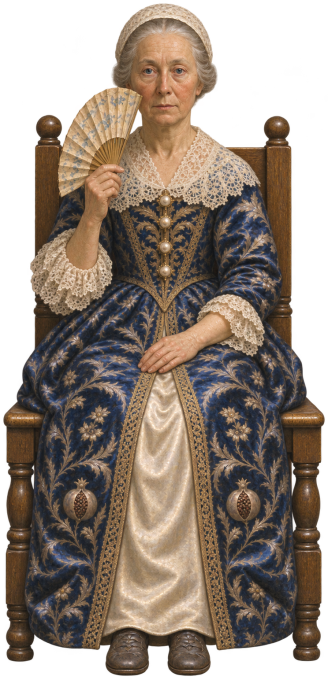
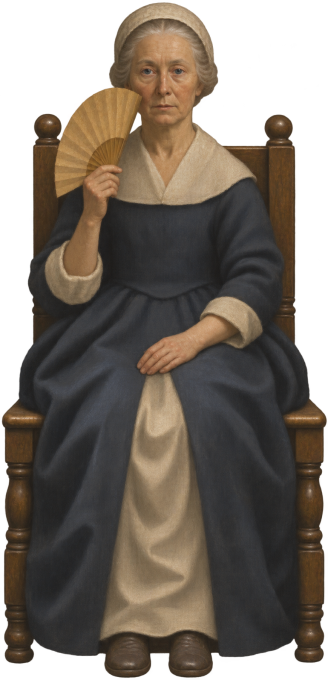
simplify the seated woman in the vermeer studio

diff --git a/scripts/vermeer/README.md b/scripts/vermeer/README.md
@@ -104,8 +104,9 @@ The level front seat rail runs horizontally; the front legs are equally near.
 Center the face, sternum, lap and chair on the same vertical line.
 Her eyes look directly forward at the painter, both eyes equally visible, nose in the middle, shoulders square, knees and the toes of both slippers pointing forward.
 Natural relaxed upright pose.
-Retain the identity and age of this woman, white lace cap, blue-and-gold brocade, pale silk skirt panel, brown slippers, pale fan lightly raised beside one cheek, face fully visible, other hand resting on her lap.
-Quiet Vermeer oil painting and soft window light from the viewer's right.
+Retain her age, likeness, brown slippers and the gesture of the open fan beside her cheek. Her other hand rests on her lap.
+Paint her gown in muted slate-blue wool with a few broad folds. Give her a plain linen cap, collar and cuffs, and a simple ochre fan.
+Use the girl peeking through the door as the reference for window light, soft edges and the broad tones of the face and hands.
 Deliver the complete woman AND occupied chair as one full-length cutout, with true transparent alpha around all edges and in all open spaces.
 Include the soles and chair feet, viewed slightly from above the seat at adult eye level.
 No floor, wall, cast shadow or other objects.
